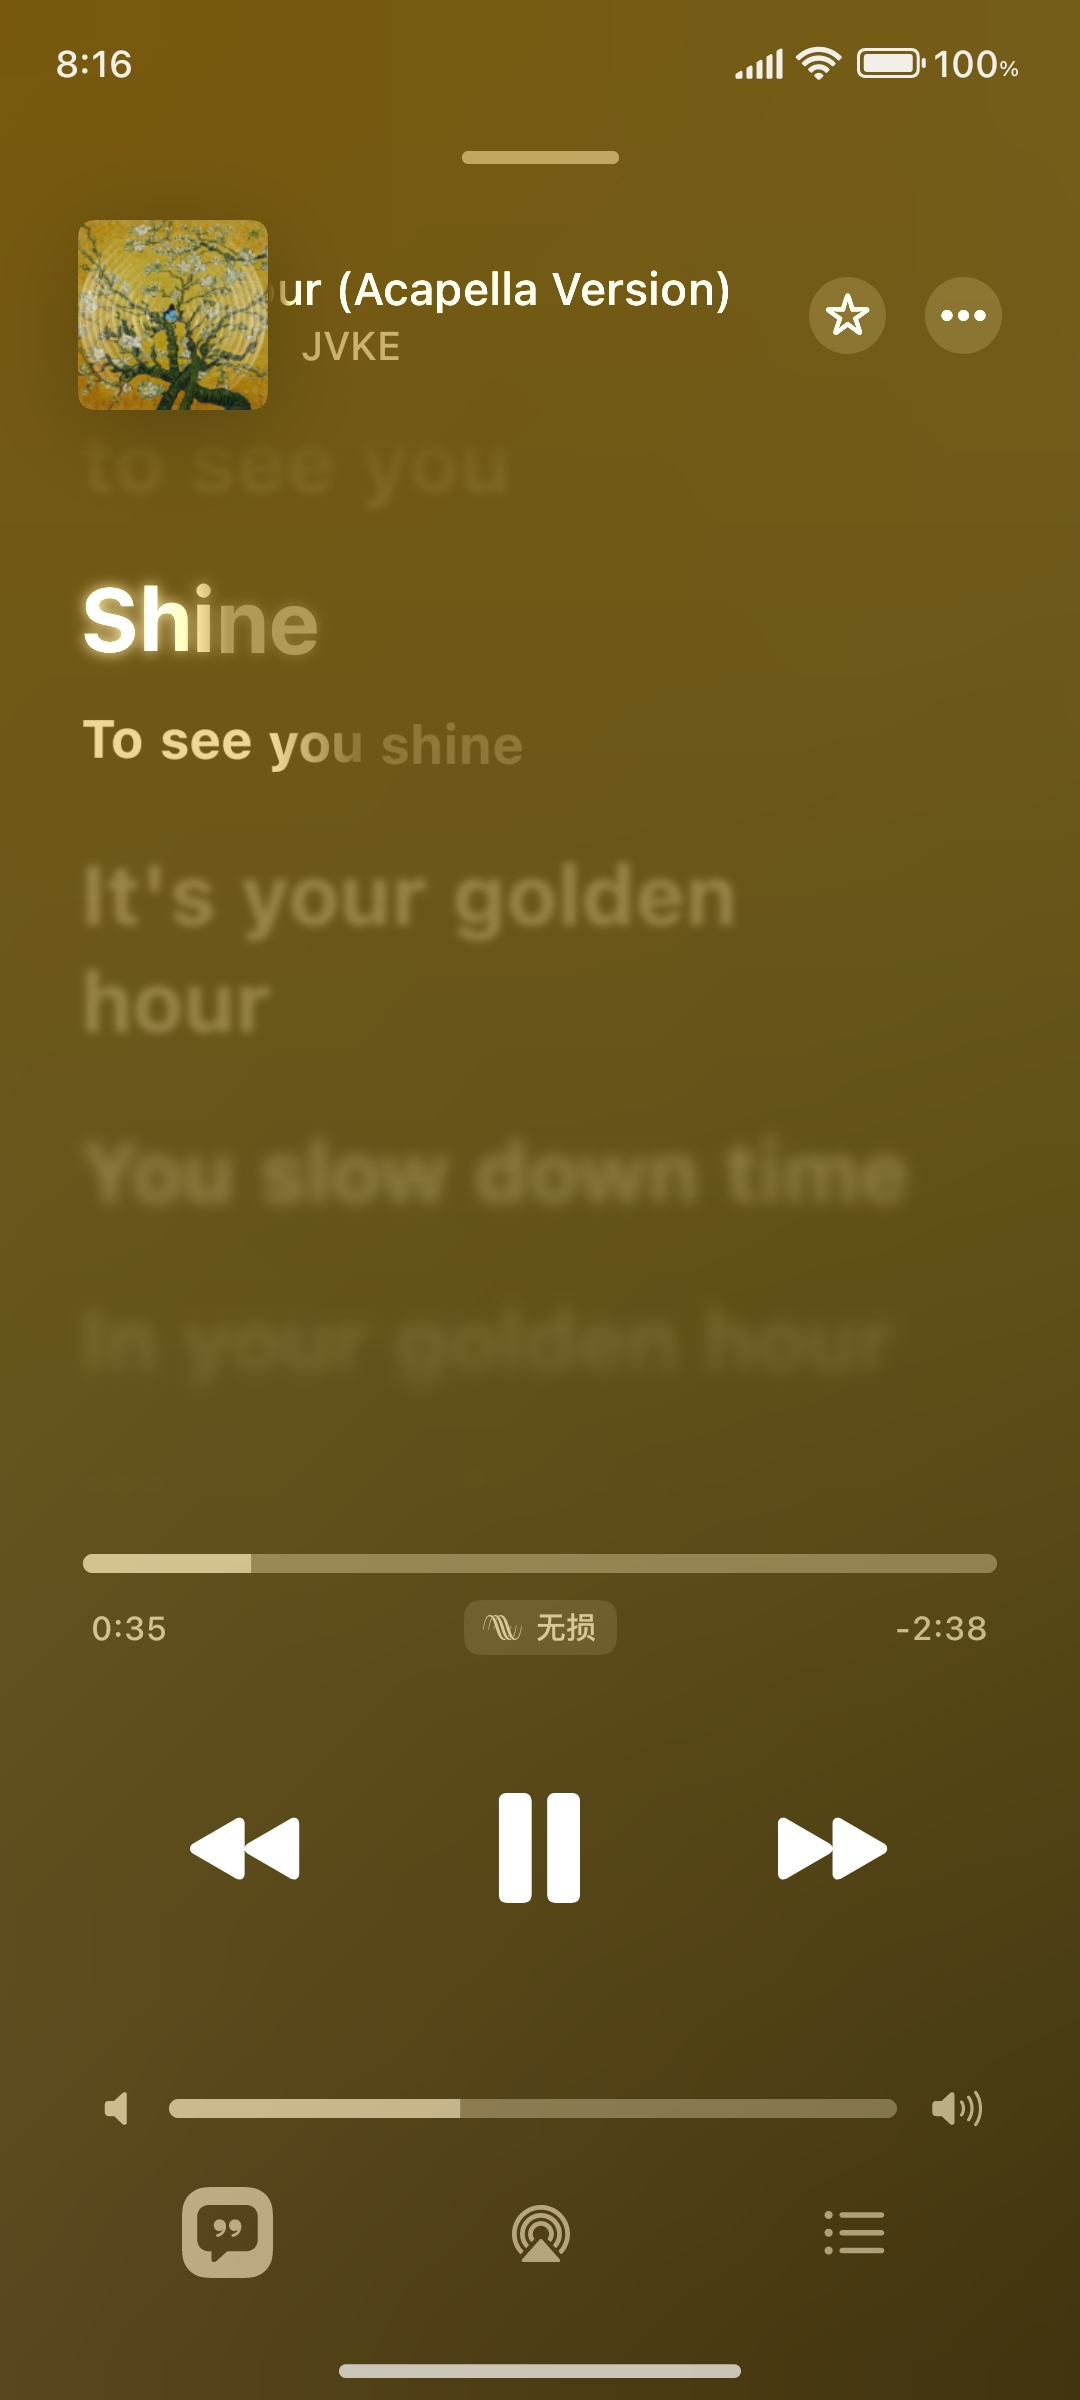
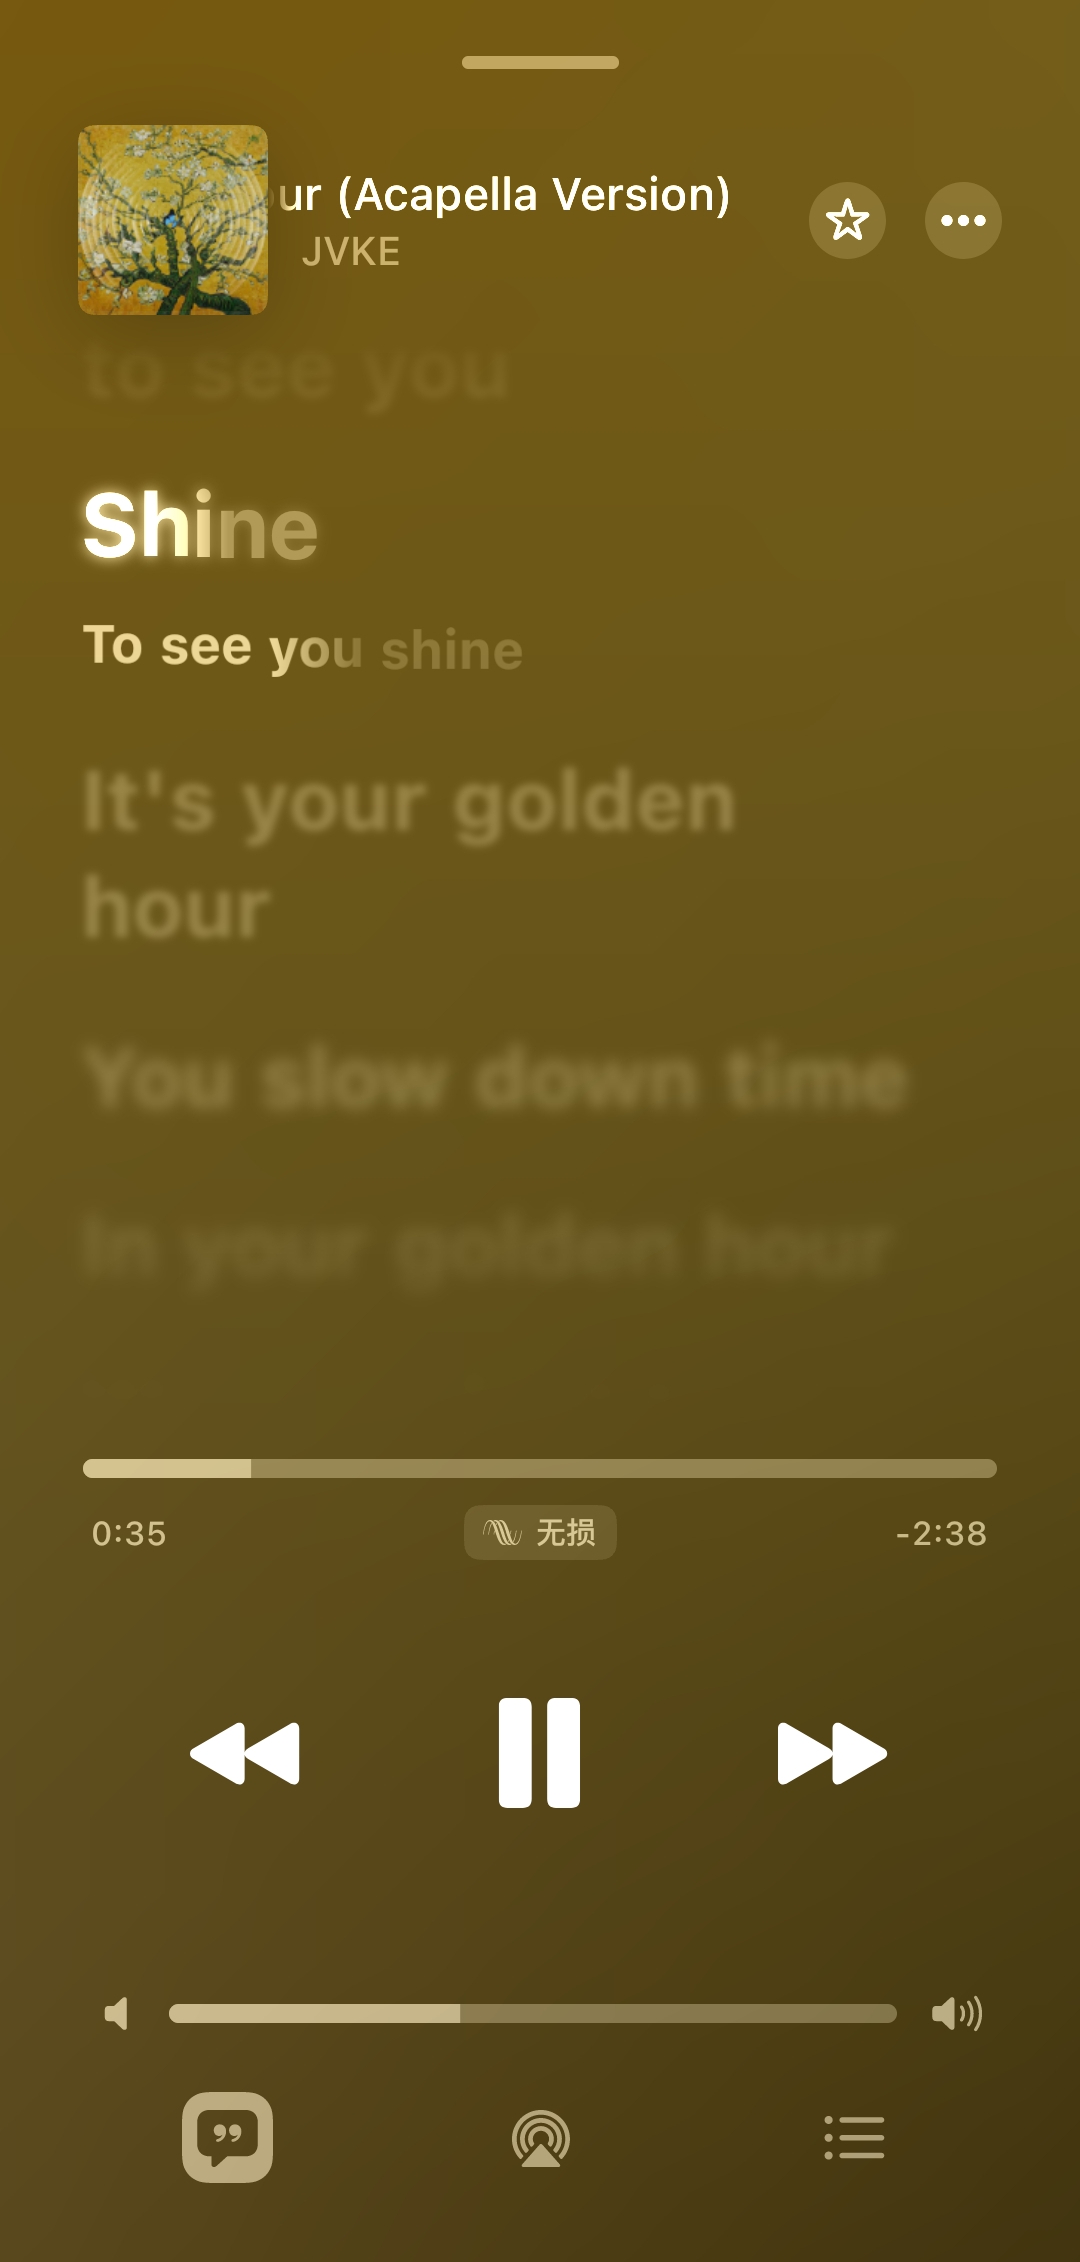
Much needed README update

diff --git a/README.md b/README.md
@@ -7,13 +7,13 @@ Flamingo is a local music player for Android, styled after Apple Music, and is c
 
 <table width="100%">
   <tr>
-    <td align="center"><img src="./docs/pics/1.jpg" width="100%" alt="1"></td>
-    <td align="center"><img src="./docs/pics/2.jpg" width="100%" alt="2"></td>
-    <td align="center"><img src="./docs/pics/3.jpg" width="100%" alt="3"></td>
+    <td align="center"><img src="./docs/pics/1.png" width="100%" alt="1"></td>
+    <td align="center"><img src="./docs/pics/2.png" width="100%" alt="2"></td>
+    <td align="center"><img src="./docs/pics/3.png" width="100%" alt="3"></td>
   </tr>
   <tr>
-    <td align="center"><img src="./docs/pics/4.jpg" width="100%" alt="4"></td>
-    <td align="center"><img src="./docs/pics/5.jpg" width="100%" alt="5"></td>
+    <td align="center"><img src="./docs/pics/4.png" width="100%" alt="4"></td>
+    <td align="center"><img src="./docs/pics/5.png" width="100%" alt="5"></td>
     <td align="center"><img src="./docs/pics/6.jpg" width="100%" alt="6"></td>
   </tr>
 </table>
@@ -25,12 +25,12 @@ Flamingo is a local music player for Android, styled after Apple Music, and is c
 - Minimum support for Android 5.0
 
 ### Package Information
-- Compact size, less than 9 MB
+- Compact size, approx. 10 MB
 - Fully local, no internet required; only necessary permissions are requested
 
 ### Feature Information
 - High UI fidelity with elegant animations
-- Supports basic playback functions (playlist functionality is currently incomplete)
+- Supports playlists, albums, artists 
 - Supports embedded / external TTML and LRC lyrics
 - Supports widgets
 - Excellent lyric animations and effects